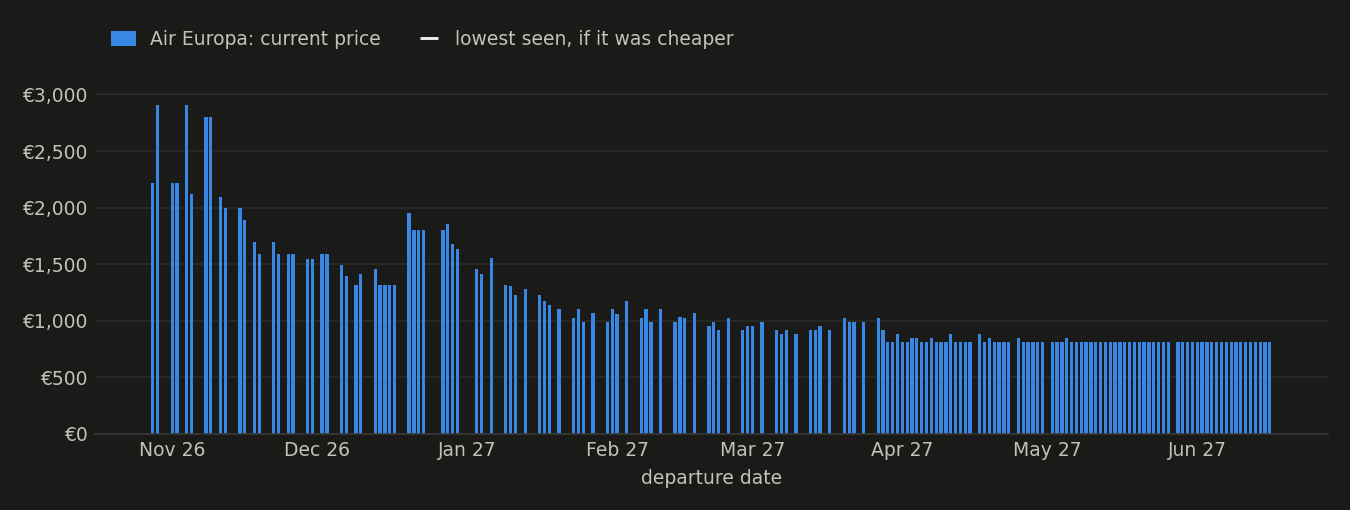
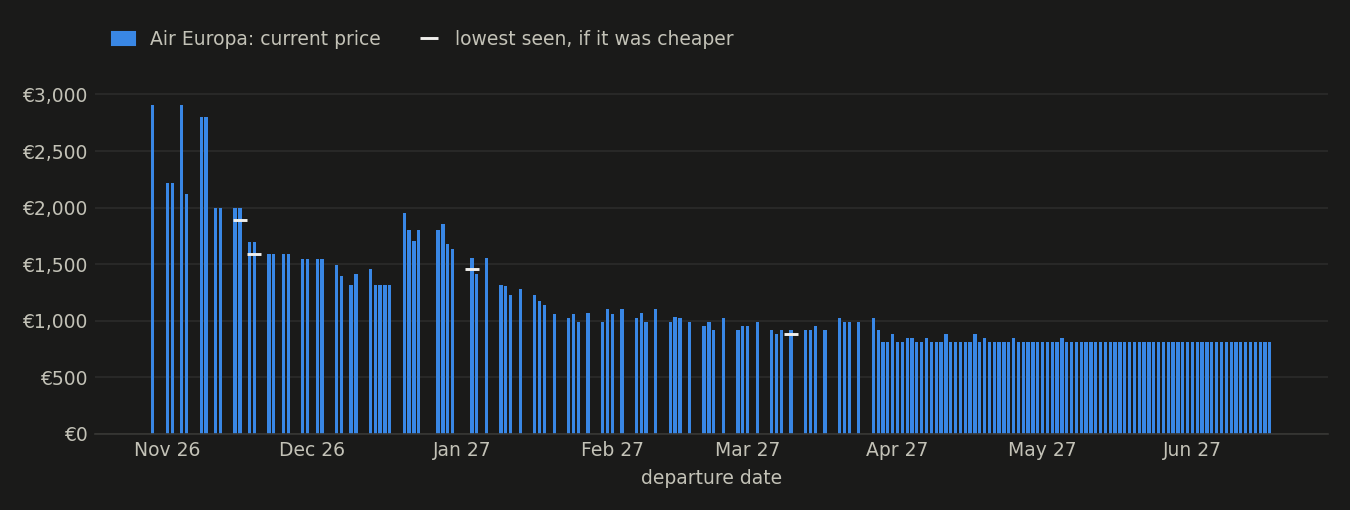
report: 2026-10-28 06:53 UTC

Changed region(s): [[0.0933, 0.2059, 0.7467, 0.9118], [0.7467, 0.6765, 0.8089, 0.9118], [0.84, 0.8529, 0.9022, 0.9118]]

diff --git a/report/REPORT.md b/report/REPORT.md
@@ -1,13 +1,13 @@
 # Flight prices
 Round trip, 14-day stay, 1 adult, economy. Prices from Google Flights.
 
-_Updated 2026-10-27 22:47 (local time) · 4 checks since 2026-10-27 · 0 price changes detected._
+_Updated 2026-10-28 07:36 (local time) · 13 checks since 2026-10-27 · 26 price changes detected._
 
 ## Summary
 
 - **Cheapest right now: €814** with Air Europa, Mon 29 Mar 27 → Mon 12 Apr 27.
-- **Changes with a reliable time:** 0 rises and 0 drops over 1 days of tracking.
-- Not enough changes yet to draw conclusions about hours and days (at least 20 needed). After 2-3 weeks of data this report becomes reliable.
+- **When prices drop:** most drops are detected at 01:00 and on Wednesdays; rises at 03:00 and on Wednesdays.
+- **Changes with a reliable time:** 9 rises and 17 drops over 2 days of tracking.
 
 ## Cheapest dates right now
 
@@ -32,13 +32,13 @@ _Updated 2026-10-27 22:47 (local time) · 4 checks since 2026-10-27 · 0 price c
 
 | Departure day | Airline | Average | Cheapest | Departures |
 |---|---|---|---|---|
-| Monday | Air Europa | €1,176 | €814 | 33 |
-| Tuesday | Air Europa | €971 | €814 | 15 |
-| Wednesday | Air Europa | €1,213 | €814 | 34 |
-| Thursday | Air Europa | €1,259 | €814 | 18 |
-| Friday | Air Europa | €814 | €814 | 10 |
-| Saturday | Air Europa | €941 | €814 | 21 |
-| Sunday | Air Europa | €1,212 | €814 | 33 |
+| Monday | Air Europa | €1,179 | €814 | 33 |
+| Tuesday | Air Europa | €964 | €814 | 15 |
+| Wednesday | Air Europa | €1,173 | €814 | 33 |
+| Thursday | Air Europa | €1,217 | €814 | 20 |
+| Friday | Air Europa | €814 | €814 | 11 |
+| Saturday | Air Europa | €930 | €814 | 23 |
+| Sunday | Air Europa | €1,209 | €814 | 33 |
 
 _Averages mix seasons: a day that only has flights in low season looks cheaper on average even if it isn't within the same week._
 
@@ -46,20 +46,53 @@ _Averages mix seasons: a day that only has flights in low season looks cheaper o
 
 Each bar compares the price at that hour with the median of the same flight on the same day. Blue bars are hours when, on average, the flight is cheaper.
 
-_No full day of hourly checks yet._
+<picture><source media="(prefers-color-scheme: dark)" srcset="charts/level-by-hour-dark.png"><img alt="Mean price deviation by hour of the check" src="charts/level-by-hour-light.png"></picture>
+
+_Only 1 day(s) with enough checks so far; wait for at least 3._
 
 ## When do prices change?
 
 When each rise or drop was detected (local time). Only changes seen less than 3 hours after the previous check count.
 
-_No price change detected yet._
+<picture><source media="(prefers-color-scheme: dark)" srcset="charts/changes-by-hour-dark.png"><img alt="Price rises and drops by hour of the day" src="charts/changes-by-hour-light.png"></picture>
+
+<picture><source media="(prefers-color-scheme: dark)" srcset="charts/changes-by-day-dark.png"><img alt="Price rises and drops by day of the week" src="charts/changes-by-day-light.png"></picture>
 
 ## How far ahead should you buy?
 
 Median of how far above its own minimum each flight is, by days left before departure. The lowest point of the curve is the lead time at which prices tend to bottom out.
 
-_At least 14 days of tracking needed (so far 1)._
+_At least 14 days of tracking needed (so far 2)._
+
+## Biggest drops in the last 7 days
+
+| Detected | Departure | Return | Airline | Before | Now | Change |
+|---|---|---|---|---|---|---|
+| 2026-10-27 23:23 | Sun 22 Nov 26 | Sun 6 Dec 26 | Air Europa | €1,694 | €1,594 | -€100 (-5.9%) |
+| 2026-10-28 01:48 | Thu 5 Nov 26 | Thu 19 Nov 26 | Air Europa | €2,219 | €2,119 | -€100 (-4.5%) |
+| 2026-10-28 01:48 | Wed 11 Nov 26 | Wed 25 Nov 26 | Air Europa | €2,094 | €1,994 | -€100 (-4.8%) |
+| 2026-10-28 01:48 | Thu 19 Nov 26 | Thu 3 Dec 26 | Air Europa | €1,694 | €1,594 | -€100 (-5.9%) |
+| 2026-10-28 01:48 | Tue 22 Dec 26 | Tue 5 Jan 27 | Air Europa | €1,804 | €1,704 | -€100 (-5.5%) |
+| 2026-10-28 05:27 | Mon 23 Nov 26 | Mon 7 Dec 26 | Air Europa | €1,694 | €1,594 | -€100 (-5.9%) |
+| 2026-10-28 05:27 | Tue 22 Dec 26 | Tue 5 Jan 27 | Air Europa | €1,804 | €1,704 | -€100 (-5.5%) |
+| 2026-10-28 07:36 | Wed 3 Feb 27 | Wed 17 Feb 27 | Air Europa | €1,177 | €1,102 | -€75 (-6.4%) |
+| 2026-10-28 04:28 | Sun 6 Dec 26 | Sun 20 Dec 26 | Air Europa | €1,544 | €1,494 | -€50 (-3.2%) |
+| 2026-10-28 06:24 | Thu 3 Dec 26 | Thu 17 Dec 26 | Air Europa | €1,594 | €1,544 | -€50 (-3.1%) |
+
+## Biggest rises in the last 7 days
+
+| Detected | Departure | Return | Airline | Before | Now | Change |
+|---|---|---|---|---|---|---|
+| 2026-10-27 23:23 | Thu 19 Nov 26 | Thu 3 Dec 26 | Air Europa | €1,594 | €1,694 | €100 (+6.3%) |
+| 2026-10-28 00:22 | Thu 5 Nov 26 | Thu 19 Nov 26 | Air Europa | €2,119 | €2,219 | €100 (+4.7%) |
+| 2026-10-28 00:22 | Sun 3 Jan 27 | Sun 17 Jan 27 | Air Europa | €1,454 | €1,554 | €100 (+6.9%) |
+| 2026-10-28 03:29 | Thu 19 Nov 26 | Thu 3 Dec 26 | Air Europa | €1,594 | €1,694 | €100 (+6.3%) |
+| 2026-10-28 03:29 | Mon 16 Nov 26 | Mon 30 Nov 26 | Air Europa | €1,894 | €1,994 | €100 (+5.3%) |
+| 2026-10-28 03:29 | Mon 23 Nov 26 | Mon 7 Dec 26 | Air Europa | €1,594 | €1,694 | €100 (+6.3%) |
+| 2026-10-28 03:29 | Tue 22 Dec 26 | Tue 5 Jan 27 | Air Europa | €1,704 | €1,804 | €100 (+5.9%) |
+| 2026-10-28 01:48 | Wed 10 Mar 27 | Wed 24 Mar 27 | Air Europa | €884 | €954 | €70 (+7.9%) |
+| 2026-10-28 01:48 | Sun 6 Dec 26 | Sun 20 Dec 26 | Air Europa | €1,494 | €1,544 | €50 (+3.3%) |
 
 ## Tracking status
 
-- Air Europa, last 24 h: 4 runs, 613 prices, 0 errors.
+- Air Europa, last 24 h: 13 runs, 2123 prices, 0 errors.
